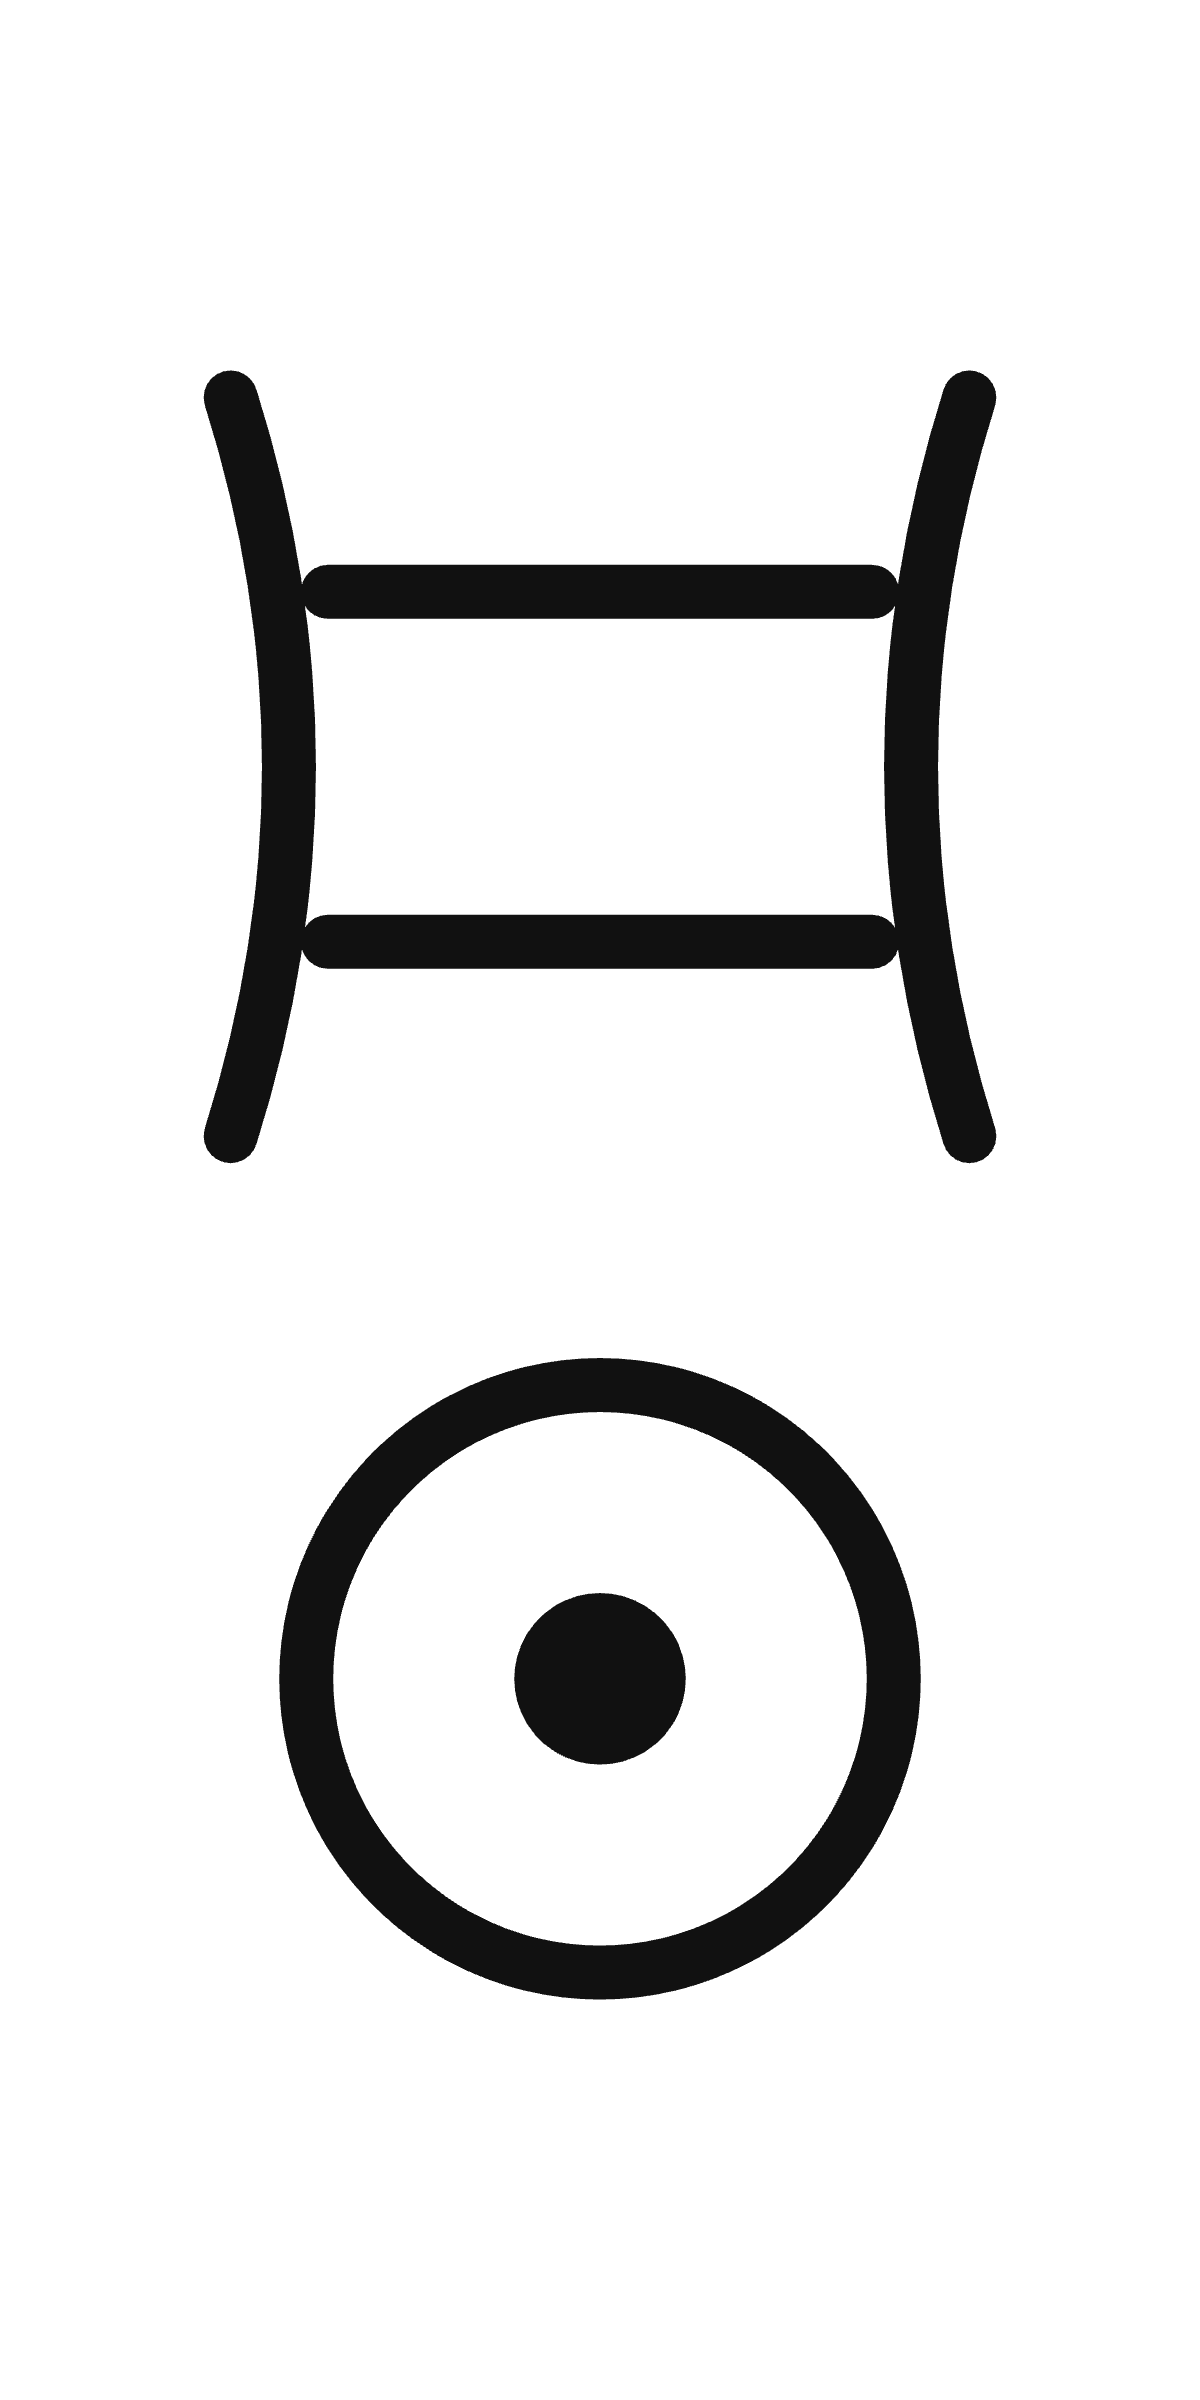
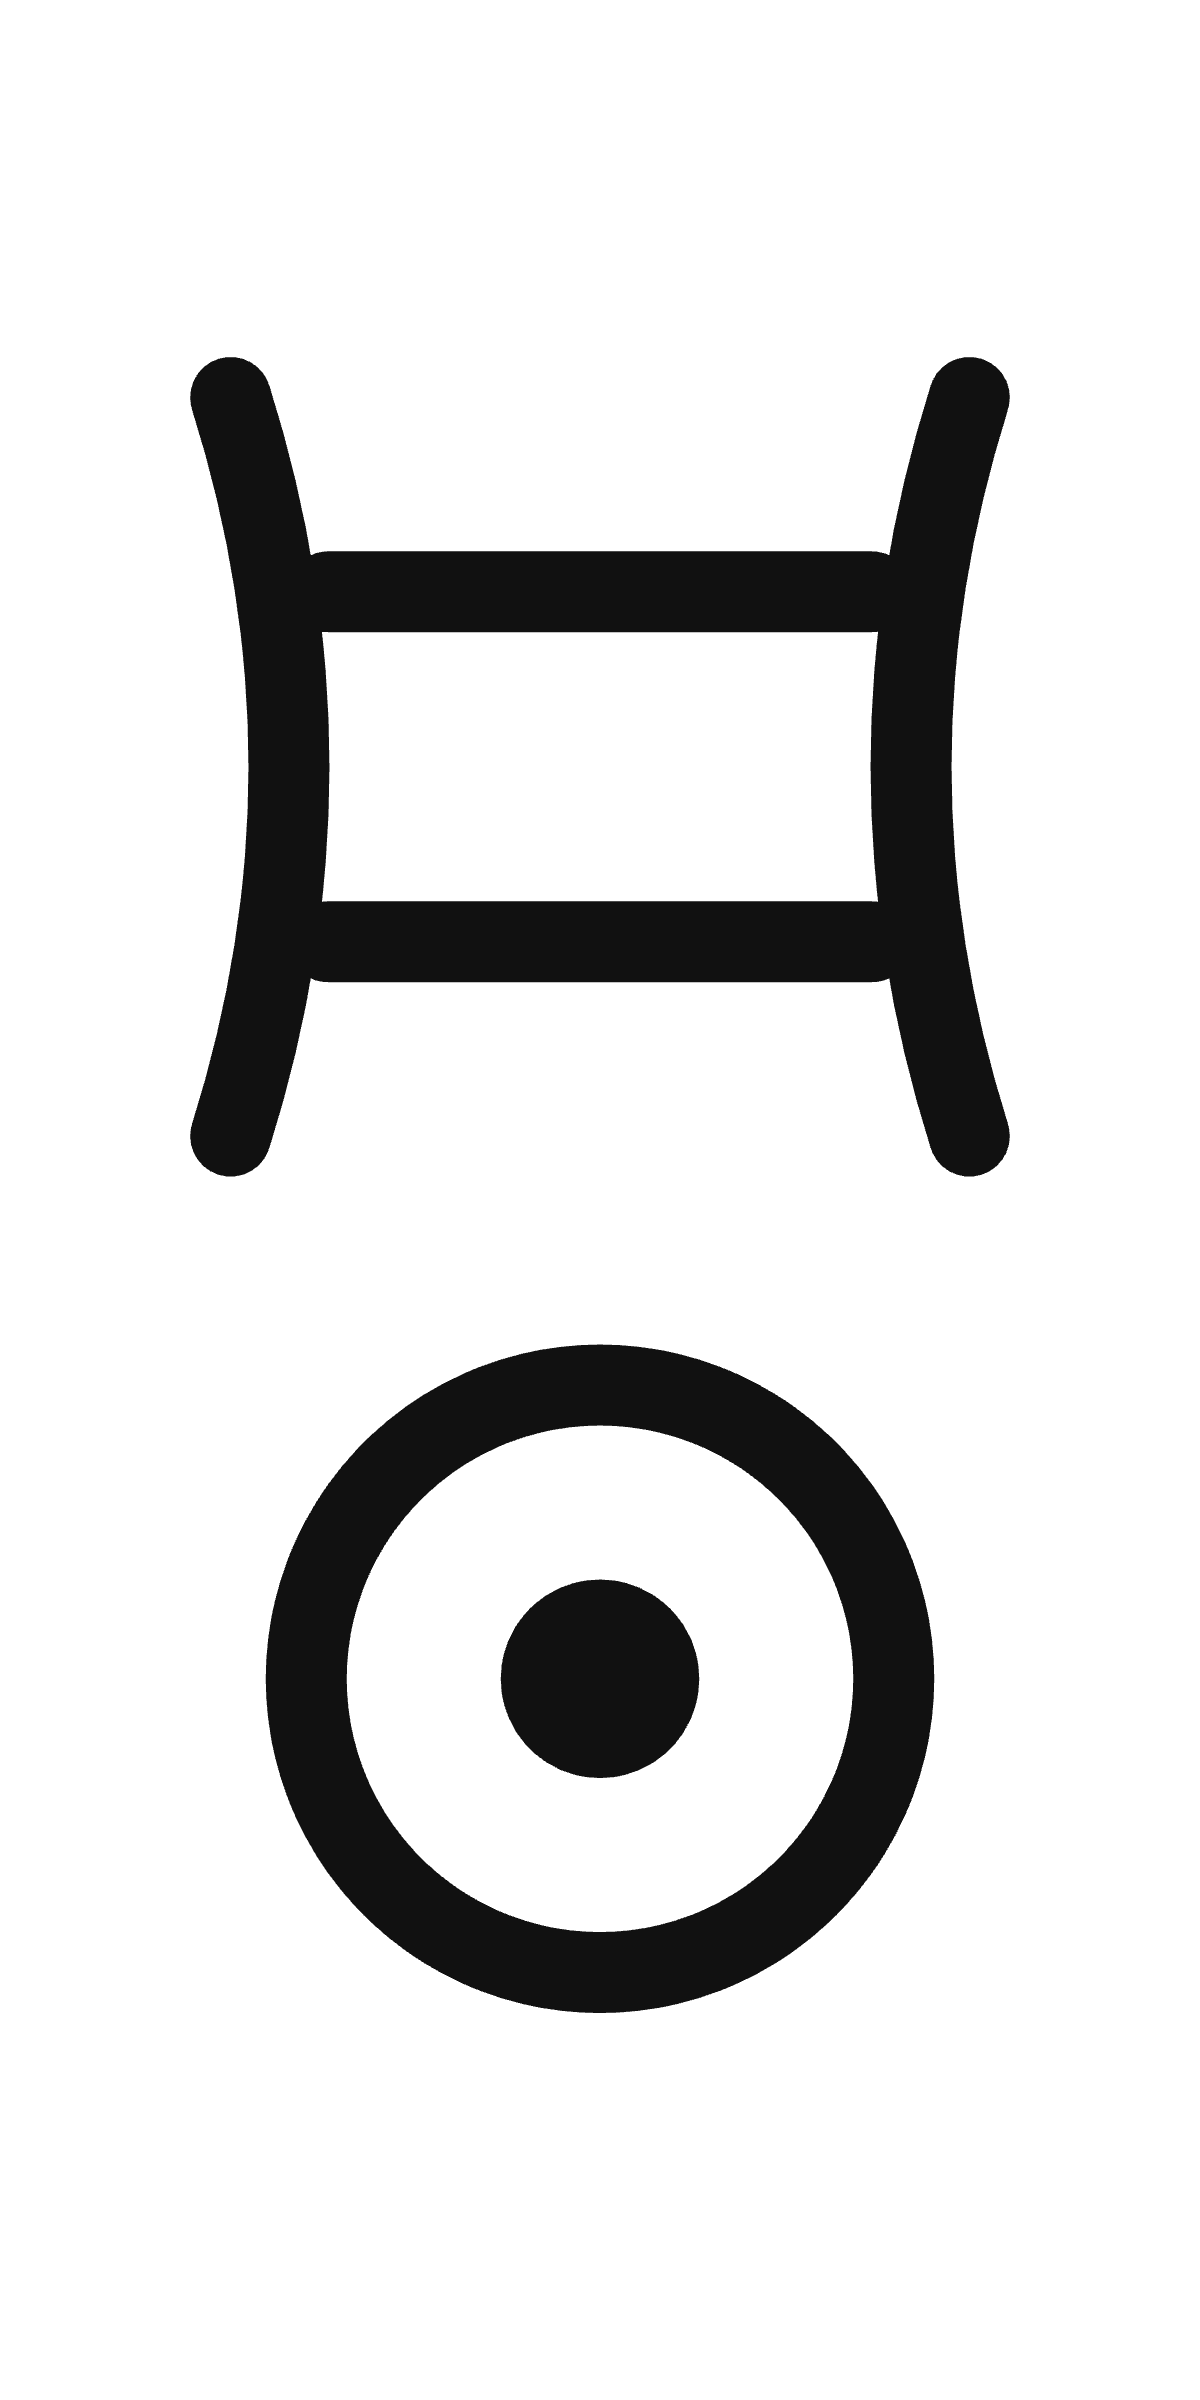
Bolder strokes for the zodiac designs
Sun + sign, Rising + sign and the one-line version now draw at 7.5% of
their height instead of 5%, so they read clearly at small sizes on
skin. Design files and example sheets regenerated.

diff --git a/index.html b/index.html
@@ -2333,13 +2333,14 @@ function glyphAsc(ctx,x,y,s,lw){   /* the ascendant: an arrow rising from the ho
   ctx.beginPath();ctx.moveTo(-.78,.82);ctx.lineTo(.78,.82);ctx.moveTo(0,.82);ctx.lineTo(0,-.9);
   ctx.moveTo(-.4,-.5);ctx.lineTo(0,-.92);ctx.lineTo(.4,-.5);ctx.stroke();ctx.restore();
 }
-function drawSunPair(ctx,W,H,sign){glyphPlanet(ctx,0,W*.29,H/2,H*.34,H*.05);glyphSign(ctx,sign,W*.69,H/2,H*.36,H*.05);}
-function drawRisingPair(ctx,W,H,sign){glyphAsc(ctx,W*.29,H/2,H*.36,H*.05);glyphSign(ctx,sign,W*.69,H/2,H*.36,H*.05);}
+const PAIR_LW=.075;   /* stroke of the sign designs, as a share of their height — bold enough to read small on skin */
+function drawSunPair(ctx,W,H,sign){glyphPlanet(ctx,0,W*.29,H/2,H*.34,H*PAIR_LW);glyphSign(ctx,sign,W*.69,H/2,H*.36,H*PAIR_LW);}
+function drawRisingPair(ctx,W,H,sign){glyphAsc(ctx,W*.29,H/2,H*.36,H*PAIR_LW);glyphSign(ctx,sign,W*.69,H/2,H*.36,H*PAIR_LW);}
 /* ☉ sign · ↑ sign — the two pairs in one line, a dot between them */
 function drawSkyRow(ctx,W,H,sunSign,ascSign){
-  glyphPlanet(ctx,0,W*.12,H/2,H*.34,H*.05);glyphSign(ctx,sunSign,W*.32,H/2,H*.36,H*.05);
-  ctx.beginPath();ctx.arc(W/2,H/2,H*.035,0,7);ctx.fill();
-  glyphAsc(ctx,W*.68,H/2,H*.36,H*.05);glyphSign(ctx,ascSign,W*.88,H/2,H*.36,H*.05);
+  glyphPlanet(ctx,0,W*.12,H/2,H*.34,H*PAIR_LW);glyphSign(ctx,sunSign,W*.32,H/2,H*.36,H*PAIR_LW);
+  ctx.beginPath();ctx.arc(W/2,H/2,H*.045,0,7);ctx.fill();
+  glyphAsc(ctx,W*.68,H/2,H*.36,H*PAIR_LW);glyphSign(ctx,ascSign,W*.88,H/2,H*.36,H*PAIR_LW);
 }
 /* the four numbers as their seals — circle, figure and numeral, as drawn in the readings */
 const SEAL_ROW=4.4;   /* width ÷ height of the row */
